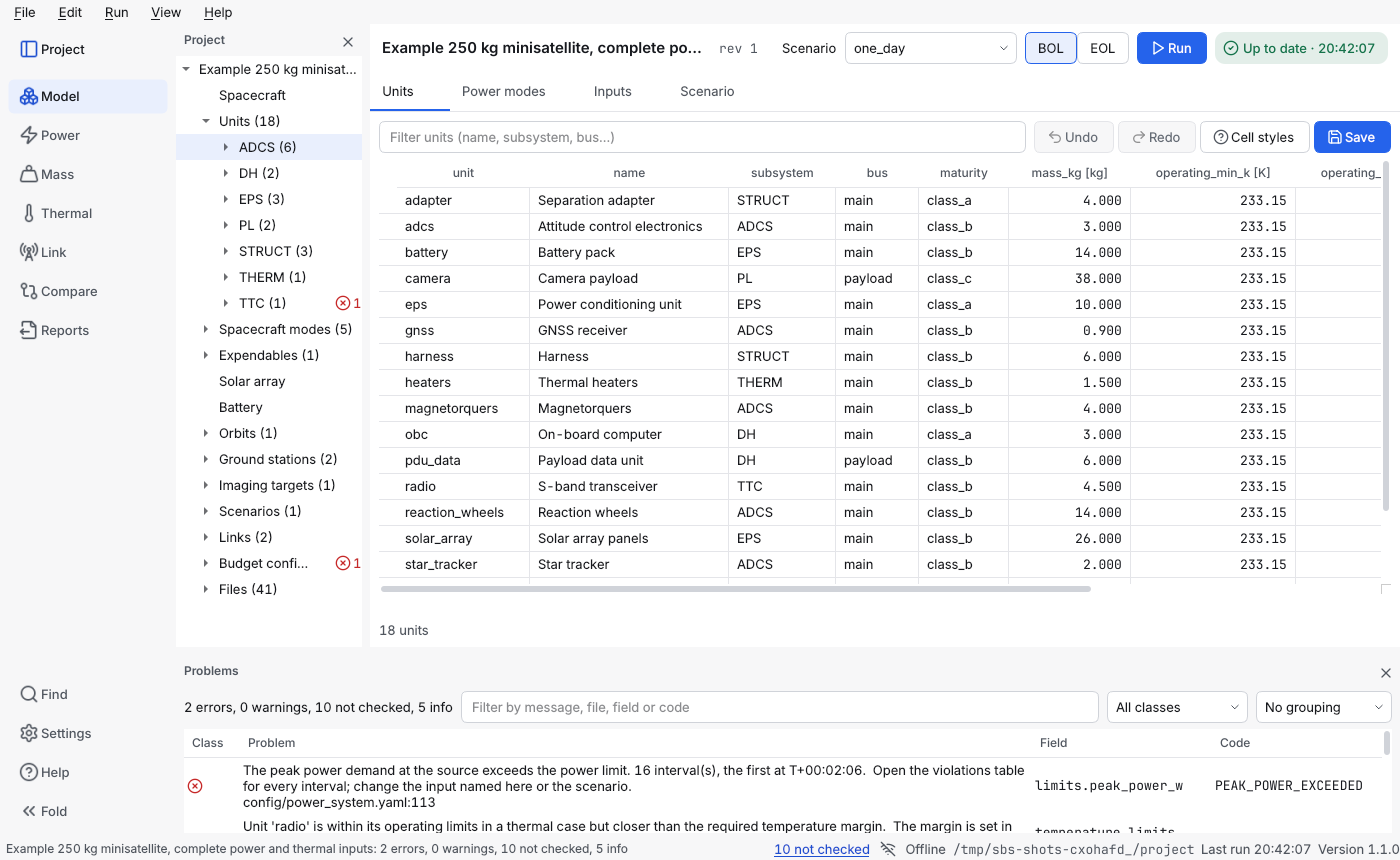
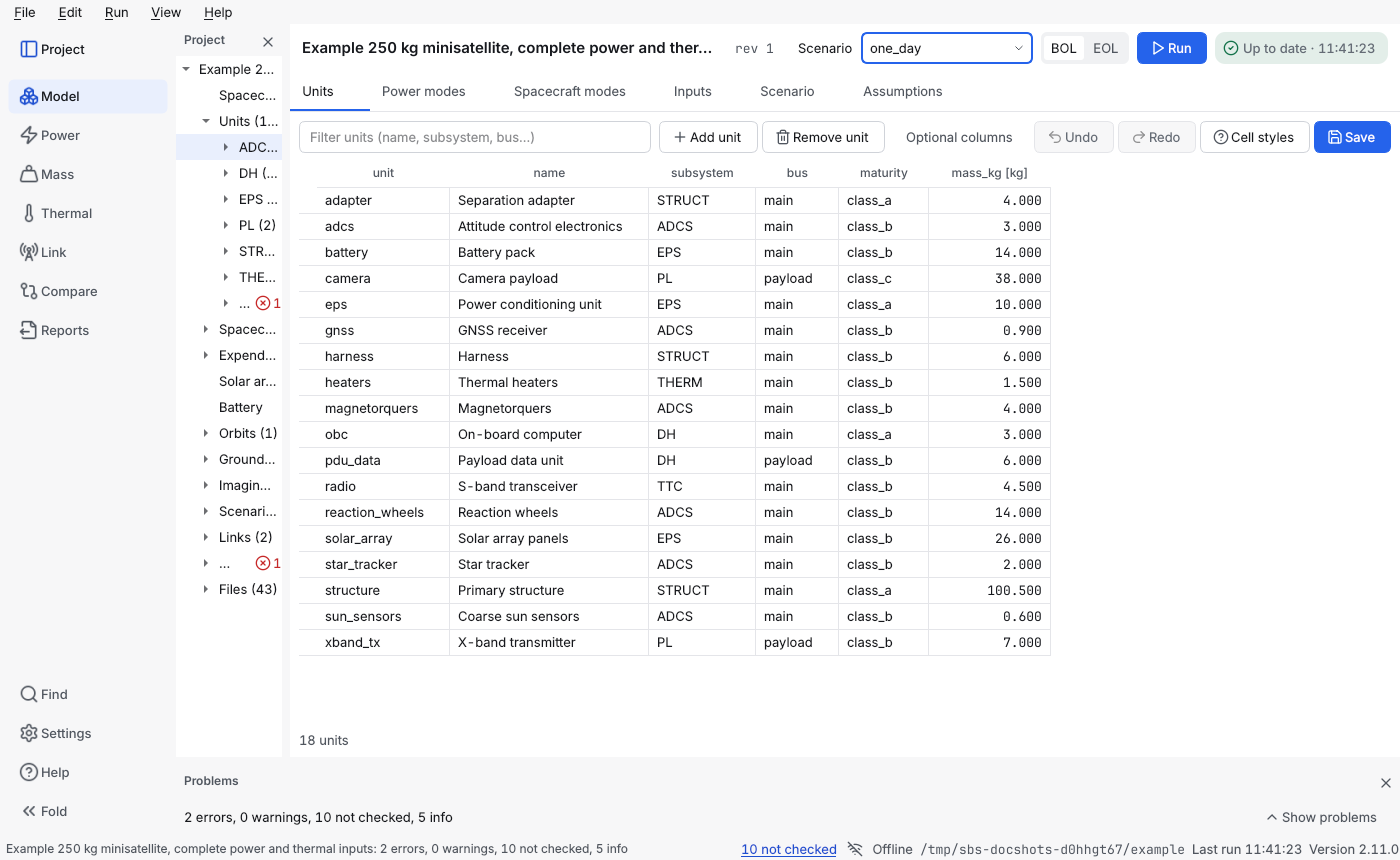
Documentation screenshots taken again from 2.11.0
The ten images of docs/images/ui-overhaul come from the current window, with a script
(scripts/ui_doc_shots.py) so that the next sweep can make them again; alt texts that no
longer matched an image are corrected.

Claude-Session: https://claude.ai/code/session_0164xmkNRe7orEUQXA4cscBa

diff --git a/scripts/ui_doc_shots.py b/scripts/ui_doc_shots.py
@@ -1,0 +1,167 @@
+"""Write the ten screenshots of `docs/images/ui-overhaul/` (light theme) from the current window.
+
+    QT_QPA_PLATFORM=offscreen python scripts/ui_doc_shots.py docs/images/ui-overhaul
+
+It opens `examples/microsat_250kg_eps` from a temporary copy, runs the budgets once and saves one
+PNG per image the documentation shows (focused view, power budget with the Problems list, Explain,
+power timeline, the Model pages, the scenario statistics) and, from a blank project made with
+`budget new`, the Start here card. Nothing is written outside the output folder and the temporary
+copies. Run it after a change of the window that the pages show, and read each image before you
+commit it.
+"""
+
+from __future__ import annotations
+
+import os
+import shutil
+import sys
+import tempfile
+import time
+from collections.abc import Callable
+from pathlib import Path
+
+os.environ.setdefault("QT_QPA_PLATFORM", "offscreen")
+os.environ["BUDGET_NO_LAYOUT"] = "1"  # the harness keeps no layout file
+
+from PySide6.QtCore import QEventLoop, QTimer  # noqa: E402
+from PySide6.QtWidgets import QApplication, QTableView, QTabWidget  # noqa: E402
+
+from budget_cli.main import main as cli_main  # noqa: E402
+from budget_gui import theme  # noqa: E402
+from budget_gui.app import create_app  # noqa: E402
+from budget_gui.main_window import MainWindow  # noqa: E402
+from budget_gui.workspace import SubTabs  # noqa: E402
+
+ROOT = Path(__file__).resolve().parent.parent
+EXAMPLE = ROOT / "examples" / "microsat_250kg_eps"
+SIZE = (1400, 860)
+TALL = (1400, 1000)
+
+
+def wait(ms: int) -> None:
+    loop = QEventLoop()
+    QTimer.singleShot(ms, loop.quit)
+    loop.exec()
+
+
+def wait_for(condition: Callable[[], bool], timeout_s: float = 120.0) -> None:
+    end = time.monotonic() + timeout_s
+    while not condition() and time.monotonic() < end:
+        wait(50)
+
+
+def shot(window: MainWindow, out: Path, name: str) -> None:
+    QApplication.processEvents()
+    wait(120)
+    window.grab().save(str(out / f"{name}-light.png"))
+    print("wrote", name)
+
+
+def page(window: MainWindow, area: int, index: int) -> None:
+    window.workspace.setCurrentIndex(area)
+    sub_tabs = window.workspace.widget(area)
+    assert isinstance(sub_tabs, SubTabs)
+    sub_tabs.setCurrentIndex(index)
+
+
+def open_example(work: Path) -> MainWindow:
+    project = work / "example"
+    shutil.copytree(EXAMPLE, project)
+    window = MainWindow()
+    window.resize(*SIZE)
+    window.show()
+    window.set_theme(theme.Mode.LIGHT)
+    window.open_project(project)
+    wait_for(lambda: window.session.project is not None)
+    window.run_all()
+    wait(300)
+    wait_for(lambda: not window.run_controller.is_running())
+    wait(500)
+    window.tree.setCurrentItem(window.tree.topLevelItem(0).child(1).child(0))  # a unit
+    return window
+
+
+def explain_shot(window: MainWindow, out: Path) -> None:
+    window.power_view.build_pages()
+    for view in window.power_view.findChildren(QTableView):
+        model = view.model()
+        table = getattr(model, "table", None)
+        if table is None or table.explain_id != "power:summary":
+            continue
+        page(window, 1, 0)
+        window.power_view.tabs.setCurrentIndex(0)
+        column = next(
+            i
+            for i, c in enumerate(table.columns)
+            if c.header == "Average at source, with margins (W)"
+        )
+        view.setCurrentIndex(model.index(3, column))
+        window.explain_action.trigger()
+        shot(window, out, "explain")
+        window.explain_dock.hide()
+        return
+    raise RuntimeError("the power summary table was not found")
+
+
+def model_shots(window: MainWindow, out: Path) -> None:
+    window.workspace.setCurrentIndex(0)
+    for index in range(window.editors.count()):
+        name = window.editors.tabText(index).lower().replace(" ", "-")
+        window.editors.setCurrentIndex(index)
+        if name in ("units", "assumptions"):
+            shot(window, out, f"model-{name}")
+        elif name == "power-modes":
+            window.resize(*TALL)
+            shot(window, out, "model-power-modes")
+            window.resize(*SIZE)
+        elif name == "scenario":
+            window.resize(*TALL)
+            shot(window, out, "model-scenario")
+            for tabs in window.scenario_view.findChildren(QTabWidget):
+                for i in range(tabs.count()):
+                    if tabs.tabText(i) == "Statistics":
+                        tabs.setCurrentIndex(i)
+            shot(window, out, "scenario-statistics")
+            window.resize(*SIZE)
+
+
+def main(out: Path) -> int:
+    out.mkdir(parents=True, exist_ok=True)
+    create_app([])
+    work = Path(tempfile.mkdtemp(prefix="sbs-docshots-"))
+    try:
+        window = open_example(work)
+        page(window, 1, 0)
+        shot(window, out, "focused-view")  # the default view
+        window.set_view_mode(False)  # the full view: the Problems list, the Explain panel
+        window.reveal_problems()
+        shot(window, out, "power-budget")
+        explain_shot(window, out)
+        window.set_view_mode(True)
+        page(window, 1, 1)
+        shot(window, out, "power-timeline")
+        model_shots(window, out)
+        window.editors.discard_all_changes()
+        window.close()
+
+        blank = work / "my_satellite"
+        if cli_main(["new", str(blank), "--bus-voltage-v", "28"]) != 0:
+            raise RuntimeError("budget new failed")
+        fresh = MainWindow()
+        fresh.resize(*SIZE)
+        fresh.show()
+        fresh.set_theme(theme.Mode.LIGHT)
+        fresh.open_project(blank)
+        wait_for(lambda: fresh.session.project is not None)
+        fresh.workspace.setCurrentIndex(0)
+        wait(500)
+        shot(fresh, out, "start-here")
+        fresh.editors.discard_all_changes()
+        fresh.close()
+    finally:
+        shutil.rmtree(work, ignore_errors=True)
+    return 0
+
+
+if __name__ == "__main__":
+    sys.exit(main(Path(sys.argv[1] if len(sys.argv) > 1 else "docs/images/ui-overhaul")))

diff --git a/docs/user-manual/use-the-window.md b/docs/user-manual/use-the-window.md
@@ -11,7 +11,7 @@ system-budget-studio                       # then File → Open project
 system-budget-studio path/to/project       # open a project at start
 ```
 
-![The window with the 250 kg example: the navigation rail and the project panel on the left, the top bar (project, revision, scenario, BOL and EOL, Run and the run status), the Power timeline, and the Problems panel along the bottom](../images/ui-overhaul/power-timeline-light.png)
+![The window with the 250 kg example: the navigation rail and the project panel on the left, the top bar (project, revision, scenario, BOL and EOL, Run and the run status), the Power timeline, and the problems as one line of counts along the bottom](../images/ui-overhaul/power-timeline-light.png)
 
 The picture shows the **full view**. A new window starts in the **focused view** (one line for the problems, no Inspector or Provenance panel, the main columns of the grids); **View → Focused view** (Ctrl+Shift+F) switches between the two, as [described below](#what-is-where).
 
@@ -131,7 +131,7 @@ In **Model → Scenario**, rules and segments are sentences you edit in place ([
 
 **Model → Units** has one row per unit: name, subsystem, bus, maturity, mass and the four temperature limits (the limits are *optional columns*, hidden in the focused view; the **Optional columns** button above the grid shows them); **Add unit** and **Remove unit** (also in the right-click menu, in the Edit menu and in Ctrl+K) add and remove units ([how](describe-the-spacecraft.md#how-do-i-add-a-unit)). **Power modes** has one row per power mode of every unit: average and peak power, duty cycle, heat ratio and durations, with the effective average (average times duty) beside them. **Inputs** has one row per sourced number of the configuration and the links: value, unit, source and note. The unit is in every column header; numbers show a fixed number of decimals, and the tooltip and the editor have the exact value.
 
-![The Power modes grid filtered to the radio: the line under the toolbar says what a power mode is, and the buttons say Add power mode and Remove power mode](../images/ui-overhaul/model-power-modes-light.png)
+![The Power modes grid: the line under the toolbar says what a power mode is, and the buttons say Add power mode and Remove power mode](../images/ui-overhaul/model-power-modes-light.png)
 
 - **Type or paste.** Double-click a cell, press F2 or start typing. A value with a unit is converted (`2500 mW` is 2.5 W). **Enter** accepts and moves down, **Esc** cancels, **Tab** accepts and moves right. Copy a range from a spreadsheet and press **Ctrl+V**: the block goes in from the current cell (one value goes into every selected cell). More than one cell shows you a preview, old and new, first. Cells that cannot be edited (the unit id, the computed average) are left out and counted.
 - **Fill down and clear.** Select a cell and the cells below it and press **Ctrl+D**. **Delete** empties the cells that may be empty (an optional field); a field the model needs keeps its value.

diff --git a/CHANGELOG.md b/CHANGELOG.md
@@ -8,6 +8,7 @@ Documentation sweep after 2.11.0; no result of any budget changed.
 
 - Every page that names a menu, a shortcut, a command or a table was checked against the program as built: the menu and shortcut names against the window's real menus, the commands of getting started and of the examples against real runs. Fixed: the menu path of the IDM-CIC import (*File > Import IDM-CIC model*, which two pages wrote as *File > Import > IDM-CIC model*), the number of warnings of `microsat_250kg` (128, all placeholders), the number of example projects (five) in the architecture and developer pages, the schema versions in the file-format page, the length of a full test run.
 - New or completed: Explain of the propulsion, pointing and beta sweep tables in the manual pages, the command-line reference, the Explain model page and the in-app guide; the four spreadsheet tables (Eb/N0, attenuation, margins, links) in the FAQ, the tips, the window page, the exports page and the guide; the components of the IDM-CIC import in the manual, the FAQ, the guide, the glossary and the project folder listing; the modules of 2.2.0 to 2.11.0 in the architecture page; new glossary entries (*Beta sweep*, *Component library*, *Not mapped*).
+- The ten screenshots of the documentation (`docs/images/ui-overhaul/`) were taken again from version 2.11.0 with the new `scripts/ui_doc_shots.py`: they now show the Pointing and Beta sweep pages, the new tabs of the scenario view and the current status bar.
 - `budget tables-export` and `tables-import` say in their `--help` that they take the margins and the links too.
 
 ## [2.11.0] - 2026-11-05

diff --git a/docs/developer/README.md b/docs/developer/README.md
@@ -95,7 +95,7 @@ The manual pages (task-oriented) and the in-app guide chapters (topic-oriented, 
 lychee --offline --include-fragments --no-progress README.md CONTRIBUTING.md CHANGELOG.md 'docs/**/*.md' 'examples/**/*.md'
 ```
 
-To regenerate the screenshots run the window offscreen (`QT_QPA_PLATFORM=offscreen`), open `examples/microsat_250kg_eps`, show the area, and save `window.grab()` to `docs/images/ui-overhaul/`. `scripts/ui_screenshots.py DIR` saves every page and dialog in both themes, and `scripts/ui_scale_shots.py DIR` every page at 90 to 125 %. Run every command in [getting started](../getting-started.md) in a fresh virtual environment now and then; the commands there are the documentation's tests.
+To regenerate the ten screenshots of the pages run `QT_QPA_PLATFORM=offscreen python scripts/ui_doc_shots.py docs/images/ui-overhaul` (it opens a copy of `examples/microsat_250kg_eps`, runs it, and writes each image; read every image before you commit it). `scripts/ui_screenshots.py DIR` saves every page and dialog in both themes, and `scripts/ui_scale_shots.py DIR` every page at 90 to 125 %. Run every command in [getting started](../getting-started.md) in a fresh virtual environment now and then; the commands there are the documentation's tests.
 
 ## Build the installers
 

diff --git a/README.md b/README.md
@@ -11,7 +11,7 @@ A free, offline program for the **early design of a small satellite**: it works 
 ![Python 3.14 and newer](https://img.shields.io/badge/python-3.14%2B-blue)
 [![Licence: MIT](https://img.shields.io/badge/licence-MIT-green)](LICENSE)
 
-![System Budget Studio showing the power timeline of the 250 kg example satellite: generation, demand and state of charge over one orbit, with eclipse shading and a list of problems](docs/images/ui-overhaul/power-timeline-light.png)
+![System Budget Studio showing the power timeline of the 250 kg example satellite: generation, demand and state of charge over one day, with eclipse shading and the problems as one line of counts](docs/images/ui-overhaul/power-timeline-light.png)
 
 ## What is this?
 
